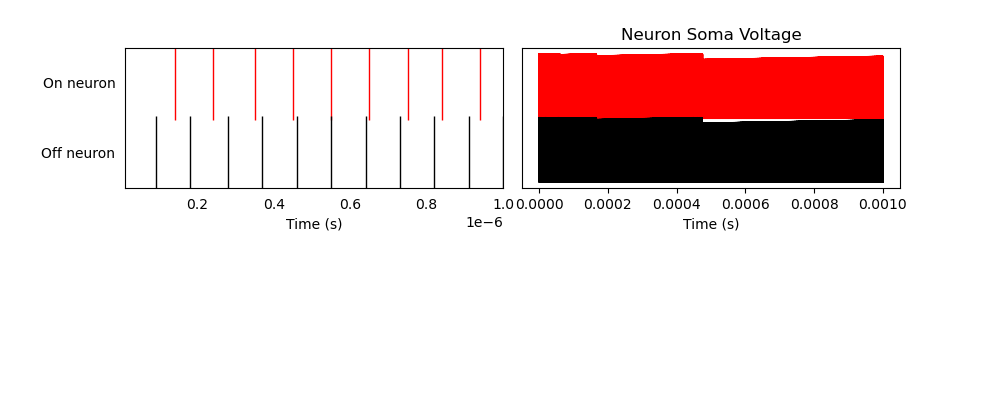
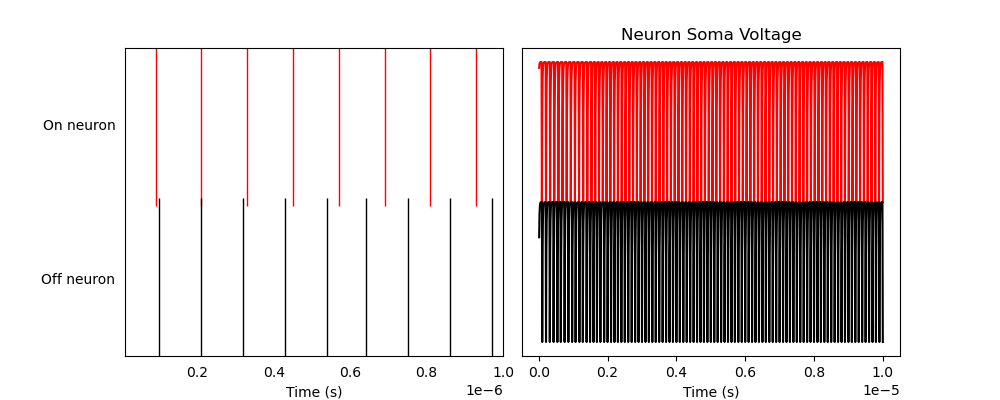
2 neurons

diff --git a/two-neurons.py b/two-neurons.py
@@ -39,67 +39,64 @@ def phase_automata(driving_symbol='0',number_of_symbols=3,id_of_starting_symbol=
             j += 1
         i += 1
     ending_state = state
-    #print(code, ending_state)
     return code, ending_state
 
-model = nengo.Network(label='Two Neurons',seed=91195)
+
+model = nengo.Network(label='Two Neurons', seed=91195)
 
 with model:
     with model:
         neurons = nengo.Ensemble(
-            2,
-            dimensions=3,  # Represent a scalar
+            2,  # Number of neurons
+            dimensions=3,  # each neuron is connected to all (3) input channels.
             # Set intercept to 0.5
-            intercepts=Uniform(-0.00001, 0.00001),# Set the intercepts at 0.00001
-            neuron_type=nengo.LIF(min_voltage=0, tau_ref=0.0000000005, tau_rc=0.00000001),
-            # Set tau_ref= or tau_rc = here to 
-            # change those 
-            # parms 
-            # for the 
+            intercepts=Uniform(-0.00001, 0.00001),  # Set the intercepts at 0.00001 (threshold for Soma voltage)
+            neuron_type=nengo.LIF(min_voltage=0, tau_ref=0.0000000005, tau_rc=0.00000001),  # Specify type of neuron
+            # Set tau_ref= or tau_rc = here to
+            # change those
+            # parms
+            # for the
             # neurons.
-            # Set the maximum firing rate of the neuron 500Mhz
-            max_rates=Uniform(500000000,500000000),
-            # Set the neuron's firing rate to increase for 2 combinations of input
-            encoders=[[-1,-1,1],[1,-1,-1]],
+            max_rates=Uniform(500e+6, 500e+6),             # Set the maximum firing rate of the neuron 500Mhz
+            # Set the neuron's firing rate to increase for 2 combinations of 3 channel input.
+            encoders=[[-1, -1, 1], [1, -1, -1]],
         )
-        
 
-threeChannels, end_channel = phase_automata(driving_symbol="1",probability_of_transition=False)
+threeChannels, end_channel = phase_automata(driving_symbol="1", probability_of_transition=True)
 print(threeChannels)
-tC = threeChannels.transpose((1,0))
-    
+tC = threeChannels.transpose((1, 0))
+
 with model:
-    #sin = nengo.Node(lambda t: np.sin(8 * t))
-    input_signal = nengo.Node(PresentInput(tC, presentation_time=0.0000001))
-    
+    input_signal = nengo.Node(PresentInput(tC, presentation_time=1e-7))
+
 with model:
-    nengo.Connection(input_signal, neurons, synapse=0.01)
-    
+    nengo.Connection(input_signal, neurons, synapse=1) 
+
+
 with model:
-    sin_probe = nengo.Probe(input_signal)  # The original input
+    input_probe = nengo.Probe(input_signal)  # The original input
     spikes = nengo.Probe(neurons.neurons)  # Raw spikes from each neuron
     # Subthreshold soma voltages of the neurons
     voltage = nengo.Probe(neurons.neurons, 'voltage')
     # Spikes filtered by a 10ms post-synaptic filter
-    filtered = nengo.Probe(neurons, synapse=0.00000000001)
+    filtered = nengo.Probe(neurons, synapse=1e-11)
     
-with nengo.Simulator(model, dt=0.00000001) as sim:  # Create a simulator
-    sim.run(0.001)  # Run it for 1 second
+with nengo.Simulator(model, dt=1e-8) as sim:  # Create a simulator
+    sim.run(10000e-9)  # Run it for 10k nanosecond
     
 t = sim.trange()
 
-plot_range = 100 # index 
+plot_range = 100  # index
 # Plot the decoded output of the ensemble
 plt.figure()
-#plt.plot(t, sim.data[filtered])
-plt.plot(t, sim.data[sin_probe])
+plt.plot(t, sim.data[input_probe])
 plt.xlim(0, t[plot_range])
 plt.xlabel("Time (s)")
-plt.title("Input probe for "+ str(plot_range)+ " timesteps")
+plt.title("Input probe for " + str(plot_range) + " timesteps")
 plt.savefig("fig/two_neurons_input_probe.png")
 plt.clf()
 plt.figure()
-plt.title("Neurons filtered probe for "+ str(plot_range)+ " timesteps")
+plt.title("Neurons filtered probe for " + str(plot_range) + " timesteps")
 plt.plot(t, sim.data[filtered])
 plt.xlabel("Time (s)")
 plt.xlim(0, t[plot_range])
@@ -108,19 +105,18 @@ plt.savefig("fig/two_neurons_filtered.png")
 # Plot the spiking output of the ensemble
 plt.figure(figsize=(10, 4))
 plt.title("Neuron Spikes")
-plt.subplot(2, 2, 1)
+plt.subplot(1, 2, 1)
 plt.xlabel("Time (s)")
 rasterplot(t[0:plot_range], sim.data[spikes][0:plot_range], colors=[(1, 0, 0), (0, 0, 0)])
 plt.yticks((1, 2), ("On neuron", "Off neuron"))
 plt.ylim(2.5, 0.5)
 
 # Plot the soma voltages of the neurons
-plt.subplot(2, 2, 2)
+plt.subplot(1, 2, 2)
 plt.title("Neuron Soma Voltage")
 plt.plot(t, sim.data[voltage][:, 0] + 1, 'r')
 plt.plot(t, sim.data[voltage][:, 1], 'k')
 plt.xlabel("Time (s)")
 plt.yticks(())
-#plt.axis([0, 1, 0, 2])
 plt.subplots_adjust(wspace=0.05)
 plt.savefig("fig/two_neurons.png")
